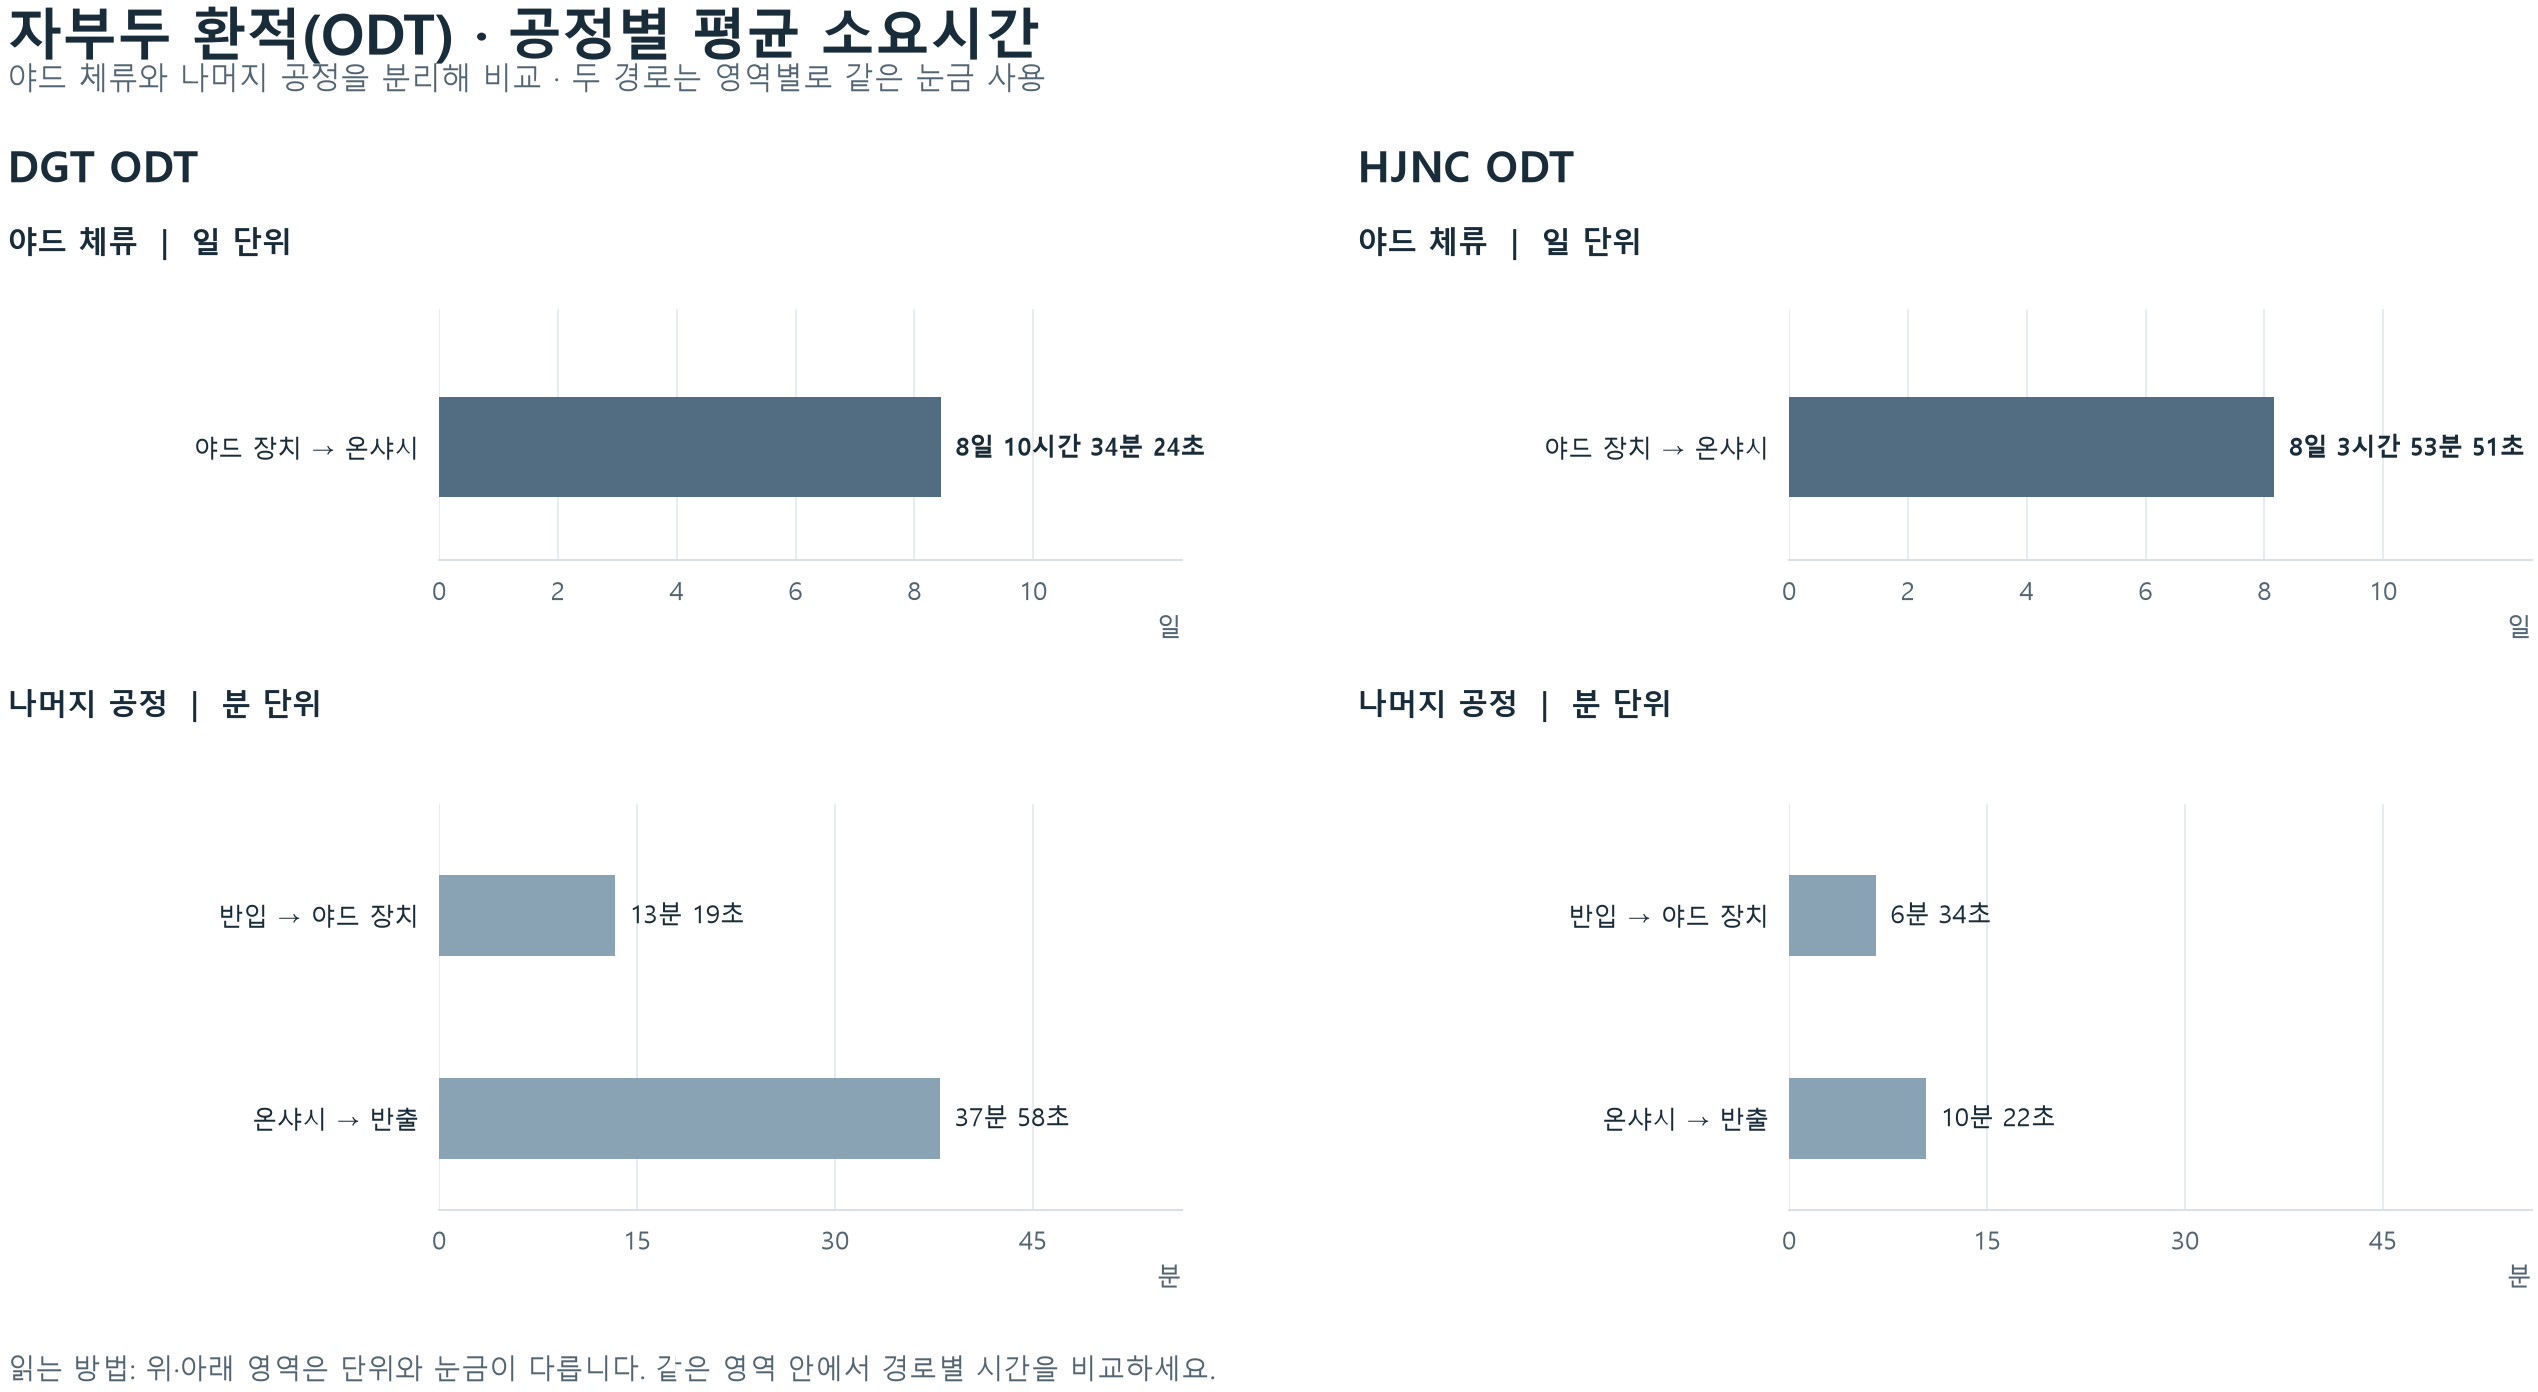
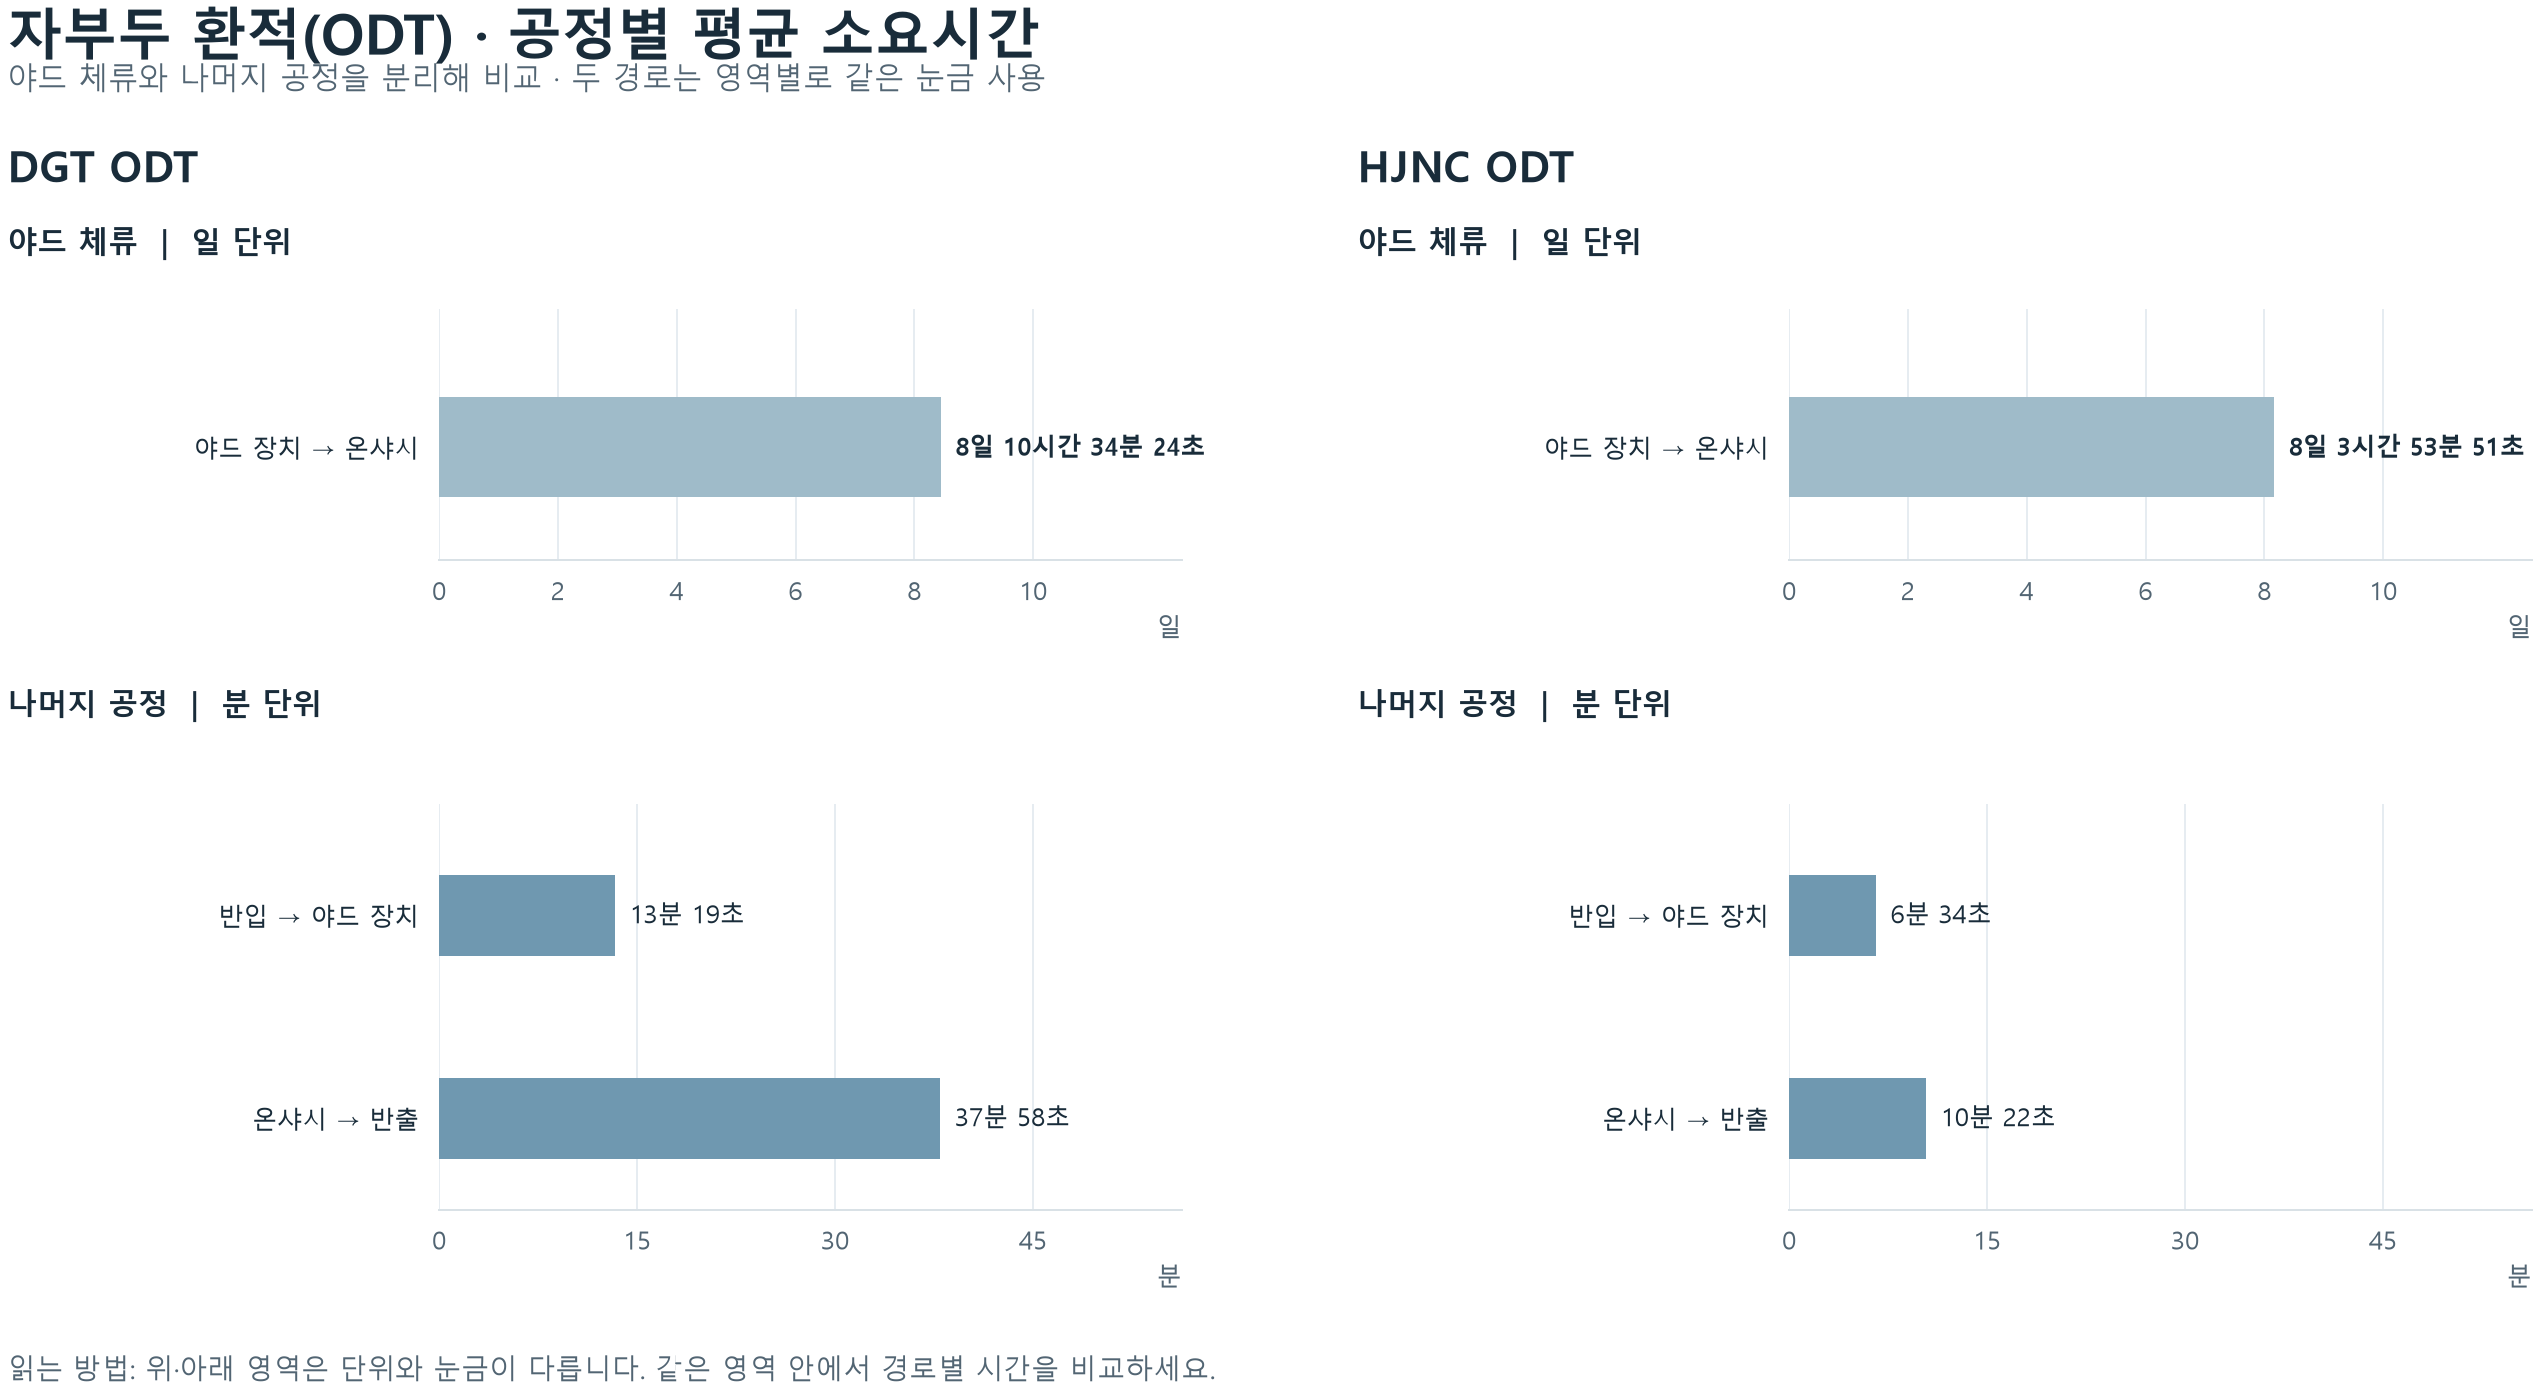
Brighten charts with a light tonal blue palette

diff --git a/prototype-streamlit/improvement_content/presentation.css b/prototype-streamlit/improvement_content/presentation.css
@@ -25,9 +25,9 @@
 .presentation-content .mlabel{font-size:13px;font-weight:600;margin-bottom:10px}
 .presentation-content .brow{display:flex;align-items:center;gap:10px;margin:8px 0;font-size:13px}
 .presentation-content .bn{width:92px;color:var(--sub);flex-shrink:0}
-.presentation-content .track{flex:1;height:14px;background:#CCD9DF;border-radius:4px;overflow:hidden}
-.presentation-content .bar{display:block;height:100%;background:#526D82;border-radius:4px}
-.presentation-content .bar.hi{background:#F4A78D}
+.presentation-content .track{flex:1;height:14px;background:#F2F5F7;border-radius:4px;overflow:hidden}
+.presentation-content .bar{display:block;height:100%;background:#9FBBC9;border-radius:4px}
+.presentation-content .bar.hi{background:#6F98B0}
 .presentation-content .bv{width:70px;text-align:right;font-weight:500;flex-shrink:0}
 .presentation-content .take{margin-top:18px;padding:14px 18px;border-left:3px solid #192C3A;background:var(--card);border-radius:0;font-size:15px}
 .presentation-content ul.lim{margin:0;padding-left:18px;font-size:14px;color:var(--sub)}

diff --git a/prototype-streamlit/styles.css b/prototype-streamlit/styles.css
@@ -154,7 +154,7 @@ header[data-testid="stHeader"] [data-testid="stExpandSidebarButton"]:hover {
 .kpi-card p { min-height:20px; margin:0 0 14px; color:#192C3A; font-size:12px; }
 .kpi-card i { display:block; width:70%; height:5px; background:#192C3A; }
 
-.donut { display:grid; width:min(200px,80%); aspect-ratio:1; place-items:center; margin:20px auto; border-radius:50%; background:conic-gradient(#526D82 0 46%,#F4A78D 46% 75%,#8AA3B4 75% 92%,#CCD9DF 92%); }
+.donut { display:grid; width:min(200px,80%); aspect-ratio:1; place-items:center; margin:20px auto; border-radius:50%; background:conic-gradient(#9FBBC9 0 46%,#6F98B0 46% 75%,#1F4E68 75% 92%,#D7E3EB 92%); }
 .donut>span { display:grid; width:63%; aspect-ratio:1; align-content:center; border-radius:50%; background:#FFFFFF; text-align:center; }
 .donut strong { color:#192C3A; font-size:24px; }
 .donut small { color:var(--soft); font-size:11px; }

diff --git a/prototype-streamlit/app_revised.py b/prototype-streamlit/app_revised.py
@@ -18,12 +18,12 @@ from improvement_content import views as improvement_views
 
 ROOT = Path(__file__).parent
 TERMINALS = (
-    ("PNC", 198_000, 84, 31.8, 67.0, "#526D82"),
-    ("PNIT", 174_000, 76, 29.4, 62.0, "#F4A78D"),
-    ("HJNC", 163_000, 71, 28.8, 59.0, "#8AA3B4"),
-    ("HPNT", 149_000, 66, 27.9, 64.0, "#CCD9DF"),
-    ("BNCT", 139_000, 61, 27.1, 57.0, "#C3836F"),
-    ("BCT", 118_000, 54, 25.8, 53.0, "#839BA9"),
+    ("PNC", 198_000, 84, 31.8, 67.0, "#9FBBC9"),
+    ("PNIT", 174_000, 76, 29.4, 62.0, "#6F98B0"),
+    ("HJNC", 163_000, 71, 28.8, 59.0, "#1F4E68"),
+    ("HPNT", 149_000, 66, 27.9, 64.0, "#C6D8E3"),
+    ("BNCT", 139_000, 61, 27.1, 57.0, "#7FA6BB"),
+    ("BCT", 118_000, 54, 25.8, 53.0, "#B0C9D8"),
 )
 CARGO_FACTORS = {"전체 화물": 1.0, "수입": 0.34, "수출": 0.31, "환적": 0.35}
 MONTHS = pd.period_range("2025-11", periods=12, freq="M").strftime("%Y.%m").tolist()
@@ -118,11 +118,11 @@ def dashboard() -> None:
         html(f'<div class="panel-head"><span>THROUGHPUT TREND</span><h2>월별 물동량 추이</h2>'
              f'<p><strong>{state["volume"]:,} TEU</strong>　선택 기간 누적 물동량</p></div>')
         chart = pd.DataFrame({"월": state["months"], "선택 기간": state["current"], "이전 기간": state["previous"]})
-        st.line_chart(chart, x="월", y=["선택 기간", "이전 기간"], color=["#526D82", "#CCD9DF"], height=300)
+        st.line_chart(chart, x="월", y=["선택 기간", "이전 기간"], color=["#6F98B0", "#C6D8E3"], height=300)
     with right, st.container(key="status_panel"):
         html('<div class="panel-head"><span>YARD STATUS</span><h2>작업 상태 분포</h2><p>샘플 기준</p></div>')
-        status = [("완료", 46, "#526D82"), ("작업 중", 29, "#F4A78D"),
-                  ("대기", 17, "#8AA3B4"), ("점검", 8, "#CCD9DF")]
+        status = [("완료", 46, "#9FBBC9"), ("작업 중", 29, "#6F98B0"),
+                  ("대기", 17, "#1F4E68"), ("점검", 8, "#D7E3EB")]
         legend = "".join(f'<div><i style="background:{color}"></i><span>{name}</span><strong>{share}%</strong></div>'
                          for name, share, color in status)
         html('<div class="donut"><span><strong>100%</strong><small>상태 분포</small></span></div>'

diff --git a/prototype-streamlit/output/preliminary-analysis-20261109/build_figures.py b/prototype-streamlit/output/preliminary-analysis-20261109/build_figures.py
@@ -34,11 +34,11 @@ plt.rcParams.update({
     "savefig.facecolor": "white",
 })
 
-BLUE = "#526D82"
-TEAL = "#F4A78D"
+BLUE = "#9FBBC9"
+TEAL = "#6F98B0"
 INK = "#192C3A"
 MUTED = "#526573"
-OTHER = "#CCD9DF"
+OTHER = "#D7E3EB"
 
 
 def seconds(days=0, hours=0, minutes=0, secs=0):
@@ -181,7 +181,7 @@ def stage_detail():
                 rows = [stage for stage in route["stages"] if (stage[2] != "other") == yard]
                 for i, (label, sec, kind) in enumerate(rows):
                     value = sec / (86400 if yard else 60)
-                    color = BLUE if kind == "yard1" else TEAL if kind == "yard2" else "#8AA3B4"
+                    color = BLUE if kind == "yard1" else TEAL if kind == "yard2" else "#6F98B0"
                     ax.barh(i, value, height=.40, color=color, zorder=2)
                     ax.text(value + limit * .025, i, duration(sec), va="center", fontsize=10,
                             color=INK, weight="bold" if yard else "normal")
@@ -219,7 +219,7 @@ def yard_share():
                 ax.barh(y, share, left=left, height=.48, color=color, zorder=2)
                 if share > 10:
                     ax.text(left + share / 2, y, f'{share:.1f}%', ha="center", va="center",
-                            color=INK if color != BLUE else "white", fontsize=12, weight="bold")
+                            color=INK, fontsize=12, weight="bold")
             left += share
         yard_pct = (first + second) / total * 100
         ax.text(102.5, y, f'야드 합계 약 {yard_pct:.2f}%', va="center", fontsize=12, weight="bold")

diff --git a/prototype-streamlit/README.md b/prototype-streamlit/README.md
@@ -41,9 +41,9 @@ prototype-streamlit/
 
 ## 화면과 데이터
 
-화면 기본 색은 네이비 `#192C3A`와 흰색 `#FFFFFF`입니다. 메뉴·제목·버튼은 네이비, 배경·카드는 흰색으로 구성합니다. 그래프에는 코랄 `#F4A78D`, 슬레이트 `#526D82`, 미스트 `#CCD9DF`를 비교·강조 색으로 사용합니다. 프로젝트 소개의 현황 분석 그래프도 같은 팔레트로 다시 그렸으며, 공정별 평균 소요시간은 야드 체류(일)와 나머지 공정(분)을 분리한 가로 막대로 표시합니다. 다른 분석 페이지의 기존 이미지 색상은 원본을 유지합니다.
+화면 기본 색은 네이비 `#192C3A`와 흰색 `#FFFFFF`입니다. 메뉴·제목·버튼은 네이비, 배경·카드는 흰색으로 구성합니다. 그래프는 첨부 블루 팔레트의 밝은 블루 `#9FBBC9`를 기본으로, 중간 톤 `#6F98B0`과 딥 블루 `#1F4E68` 및 밝은 파생 색을 비교·강조 색으로 사용합니다. 프로젝트 소개의 현황 분석 그래프도 같은 팔레트로 다시 그렸으며, 공정별 평균 소요시간은 야드 체류(일)와 나머지 공정(분)을 분리한 가로 막대로 표시합니다. 다른 분석 페이지의 기존 이미지 색상은 원본을 유지합니다.
 
-그래프의 기본 막대·선은 짙은 네이비 대신 슬레이트 블루 `#526D82`를 사용합니다. 문제제기의 ODT·ITT 공정은 선박·크레인·야드·트럭 아이콘으로 표시하며, ITT의 추가 이동과 도착 부두를 코랄 계열로 구분합니다.
+그래프의 넓은 막대는 밝은 블루, 선과 강조 항목은 중간 톤 블루를 사용합니다. 밝은 막대 위 수치에는 짙은 글자색을 사용합니다. 문제제기의 ODT·ITT 공정은 선박·크레인·야드·트럭 아이콘으로 표시하며, ITT의 추가 이동과 도착 부두를 코랄 계열로 구분합니다.
 
 - 개선안(`/improvement`): 첨부 발표 자료의 선석 공유 제안을 표시합니다.
 - 시뮬레이션(`/intro-solution`): 검증 과정과 조건을 표시합니다.

diff --git a/prototype-streamlit/improvement_content/README.md b/prototype-streamlit/improvement_content/README.md
@@ -2,7 +2,7 @@
 
 ## 현재 화면: 첨부 발표 자료 반영
 
-`port-analytics-improvement.zip`의 개선안 관련 내용만 반영했습니다. ZIP의 전체 앱·홈·분석·공통 스타일은 가져오지 않았습니다. 현재 `views.py`는 `assets/presentation.html`의 네 영역과 `presentation.css`를 사용하며, 화면은 네이비·화이트을 기본으로 하고 그래프에 코랄·슬레이트·미스트를 사용합니다.
+`port-analytics-improvement.zip`의 개선안 관련 내용만 반영했습니다. ZIP의 전체 앱·홈·분석·공통 스타일은 가져오지 않았습니다. 현재 `views.py`는 `assets/presentation.html`의 네 영역과 `presentation.css`를 사용하며, 화면은 네이비·화이트을 기본으로 하고 그래프에는 밝은 블루와 중간 톤 블루를 사용합니다.
 
 | 실제 페이지 | 화면 영역 |
 |---|---|
